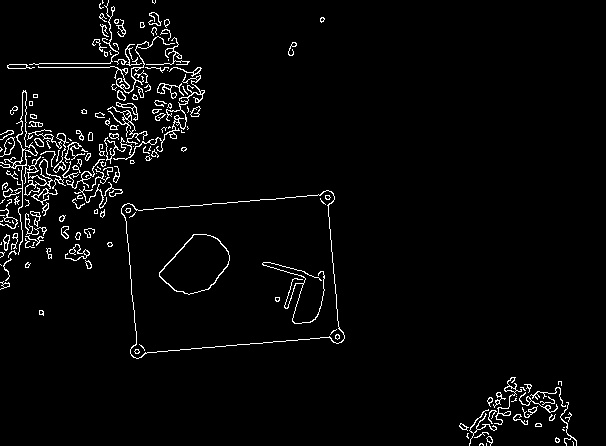
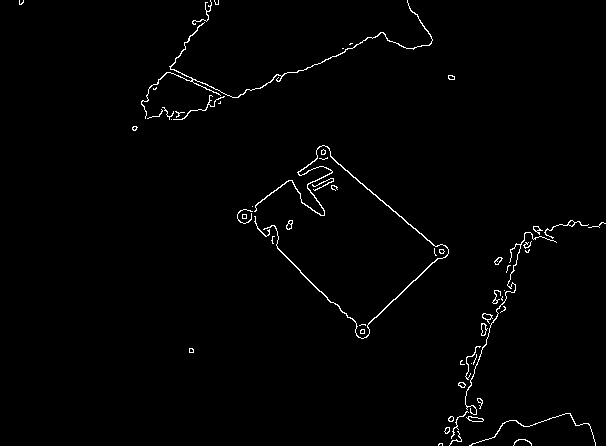
특별한 장애물이 없으면 왠만한 각도에서는 a4 인식 가능

diff --git a/caliTest.py b/caliTest.py
@@ -223,69 +223,66 @@ def line_detection(img, gray):
 def a4_init(src):
     global thres
     approx = []
-    #while len(approx) < 4:
     #thres += 2
     dst = edge_detection(gray, 1500, 500, 20)
 
     src_ = src.copy()
 
     contours, _ = cv.findContours(dst.copy(), cv.RETR_LIST, cv.CHAIN_APPROX_SIMPLE)
-    #cv.imshow('a4 edge', dst)
-
     approx = contour_estimate(src_, contours)
+
+    cv.imshow('a4 edge', dst)
     #print(thres, len(approx))
 
     #if thres > 255: thres = 0
-
 
     a4 = []
     a4_list = []
     rate = []
     a4_rate = []
     shape_rate = []
-    approx = np.array(list(filter(lambda x: len(x) == 4, approx)))
-    #print('approx shape:', np.shape(approx))
+
+    approx = np.array(list(filter(lambda x: len(x) == 4, approx)))  # only square
     if len(approx) == 0: return
 
-    '''
+    #'''
     for cordi in approx:
-        # dots type (n, 4)
-        dots = np.array(list((map(lambda a: a[0], cordi))))
-        #print(dots)
+        dots = np.array(list((map(lambda a: a[0], cordi)))) # dots shape (n, 4)
         abs_distance = []
-        for i in range(len(dots)):
+
+        #print(dots)
+        for i in range(4):
             x = abs(dots[i%4][0] - dots[(i+1)%4][0])
             y = abs(dots[i%4][1] - dots[(i+1)%4][1])
             #print(x, y, math.sqrt(x**2 + y**2))
 
             # 네 점마다의 거리와 가로세로 비율
             abs_distance.append([x, y, math.sqrt(x**2 + y**2)])
+
         #print('abs_distance', abs_distance)
 
         if len(abs_distance) == 4:
 
             # a4 대비 가로 세로 비율
+            r1 = max(abs_distance[0][2], abs_distance[3][2]) - min(abs_distance[0][2], abs_distance[3][2])
+            r2 = max(abs_distance[1][2], abs_distance[2][2]) - min(abs_distance[1][2], abs_distance[2][2])
+
+            shape_rate.append(abs(r1 + r2))
+
             r1 = min(abs_distance[0][2], abs_distance[3][2]) / max(abs_distance[0][2], abs_distance[3][2])
             r2 = min(abs_distance[1][2], abs_distance[2][2]) / max(abs_distance[1][2], abs_distance[2][2])
 
-            shape_rate.append(abs(r1 - r2))
             a4_rate.append(abs(np.mean([r1, r2]) - 0.70707070707))
             rate.append(a4_rate[-1] + shape_rate[-1])
 
+    approx = list(approx)
+    #print(len(shape_rate), len(a4_rate), len(approx))
 
+    idx = shape_rate.index(max(shape_rate))
+    shape_rate = [shape_rate[idx]]
+    a4_rate = [a4_rate[idx]]
+    approx = [approx[idx]]
 
-
-    print(len(shape_rate), len(a4_rate), len(approx))
-    print('a4_rate:', a4_rate)
-    print('shape_rate:', shape_rate)
-    print('rate:', rate)
-    #print('approx:', approx)
-    print(len(shape_rate), len(a4_rate), len(approx))
-    '''
-
-    src_ = src.copy()
-
-    result = np.array([])
     re_ = []
     if len(approx) > 0:
         for i, dot in enumerate(approx):
@@ -306,21 +303,25 @@ def a4_init(src):
             a4.append(dot)
             a4_list.append(abs(min(x, y)/max(x, y) - 0.70707070707070707070707070707071))
 
-            print(x, y, a4_list[i])
+            #print(x, y, a4_list[i])    # result 해상도
 
-            cv.putText(src, '{} {} {}'.format(x, y, round(a4_list[i], 4)), (dot[0][0], dot[0][1]), cv.FONT_HERSHEY_SIMPLEX, 0.5, (0, 255, 255), 1)
+            cv.putText(src, '{} {} {}, {} {}'.format(x, y, round(a4_list[i], 3),  round(a4_rate[i], 3),  round(shape_rate[i], 3)), (dot[0][0], dot[0][1]), cv.FONT_HERSHEY_SIMPLEX, 0.5, (0, 255, 255), 1)
             for p in dot:
                 cv.circle(src, (p[0], p[1]), 1, (0, 255, 255), -1)
 
-        if len(a4_list) == 0: return
+        #print(len(shape_rate), len(a4_rate), len(approx), len(a4))
+        #print(min(a4_rate), a4_rate.index(min(a4_rate)))
 
-        for xy in a4[a4_list.index(min(a4_list))]: cv.circle(src, tuple(xy), 5, (255, 0, 255), 2, cv.LINE_AA)
+        if len(a4) == 0: return
+        for xy in a4[a4_rate.index(min(a4_rate))]:
+            cv.circle(src, tuple(xy), 5, (255, 0, 255), 2, cv.LINE_AA)
+
         print()
 
     # 오름차순으로 정렬 후 하위 3개 중 택
     for i, r in enumerate(re_):
 
-        r = cv.resize(r, dsize=(297, 210), interpolation=cv.INTER_AREA)
+        #r = cv.resize(r, dsize=(210, 297), interpolation=cv.INTER_AREA)
         #print(i, a4_list[i])
         cv.imshow('result {}'.format(i), r)
         cv.imwrite('result {}.jpg'.format(i), r)
@@ -359,10 +360,9 @@ def affin(src, dot):
         height = int(max([h1, h2]))  # 두 상하 거리간의 최대값이 서류의 높이
 
         if not width or not height: return
-        elif width < height: width, height = height, width
+        #elif width < height: width, height = height, width
 
         # print(width, height, width/height)
-
         # print(width, height)
 
         pts2 = np.float32([[0, 0], [width - 1, 0], [width - 1, height - 1], [0, height - 1]])
@@ -391,7 +391,7 @@ if __name__ == '__main__':
         ret, frame = capture.read()
         if existFile('param.pckl') and existFile('newcameramtx.pckl'):
             cali = loadCalib(frame)  # cali color
-            cv.imwrite('cali.jpg', cali)
+            #cv.imwrite('cali.jpg', cali)
             gray = cv.cvtColor(cali, cv.COLOR_BGR2GRAY)
 
             dst = a4_init(gray)

diff --git a/test.py b/test.py
@@ -7,6 +7,7 @@ import glob
 import math
 
 
-r = None
-print(type(r))
-print(str(type(r)) == "<class 'NoneType'>")
+r = np.array([[1, 2, 3], [4, 5, 6]])
+r = list(r)
+del r[1]
+print(r)
